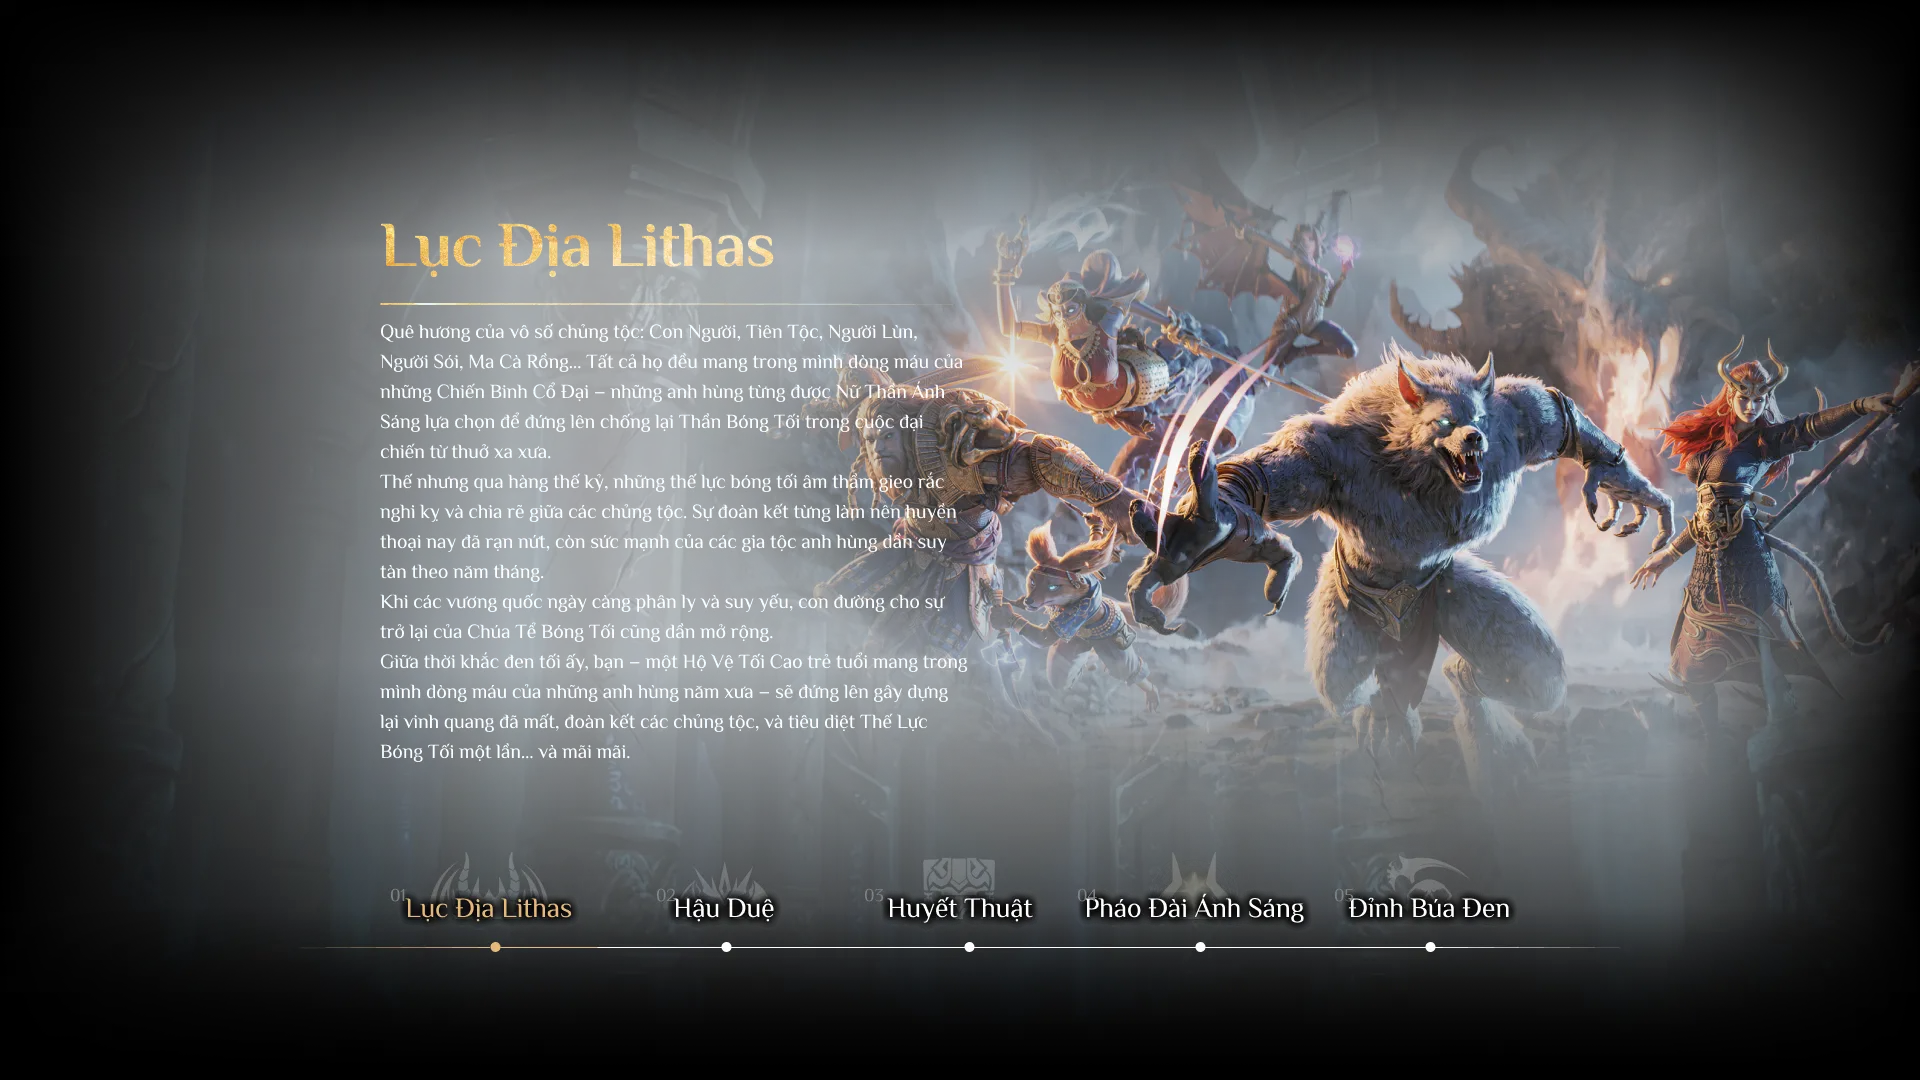
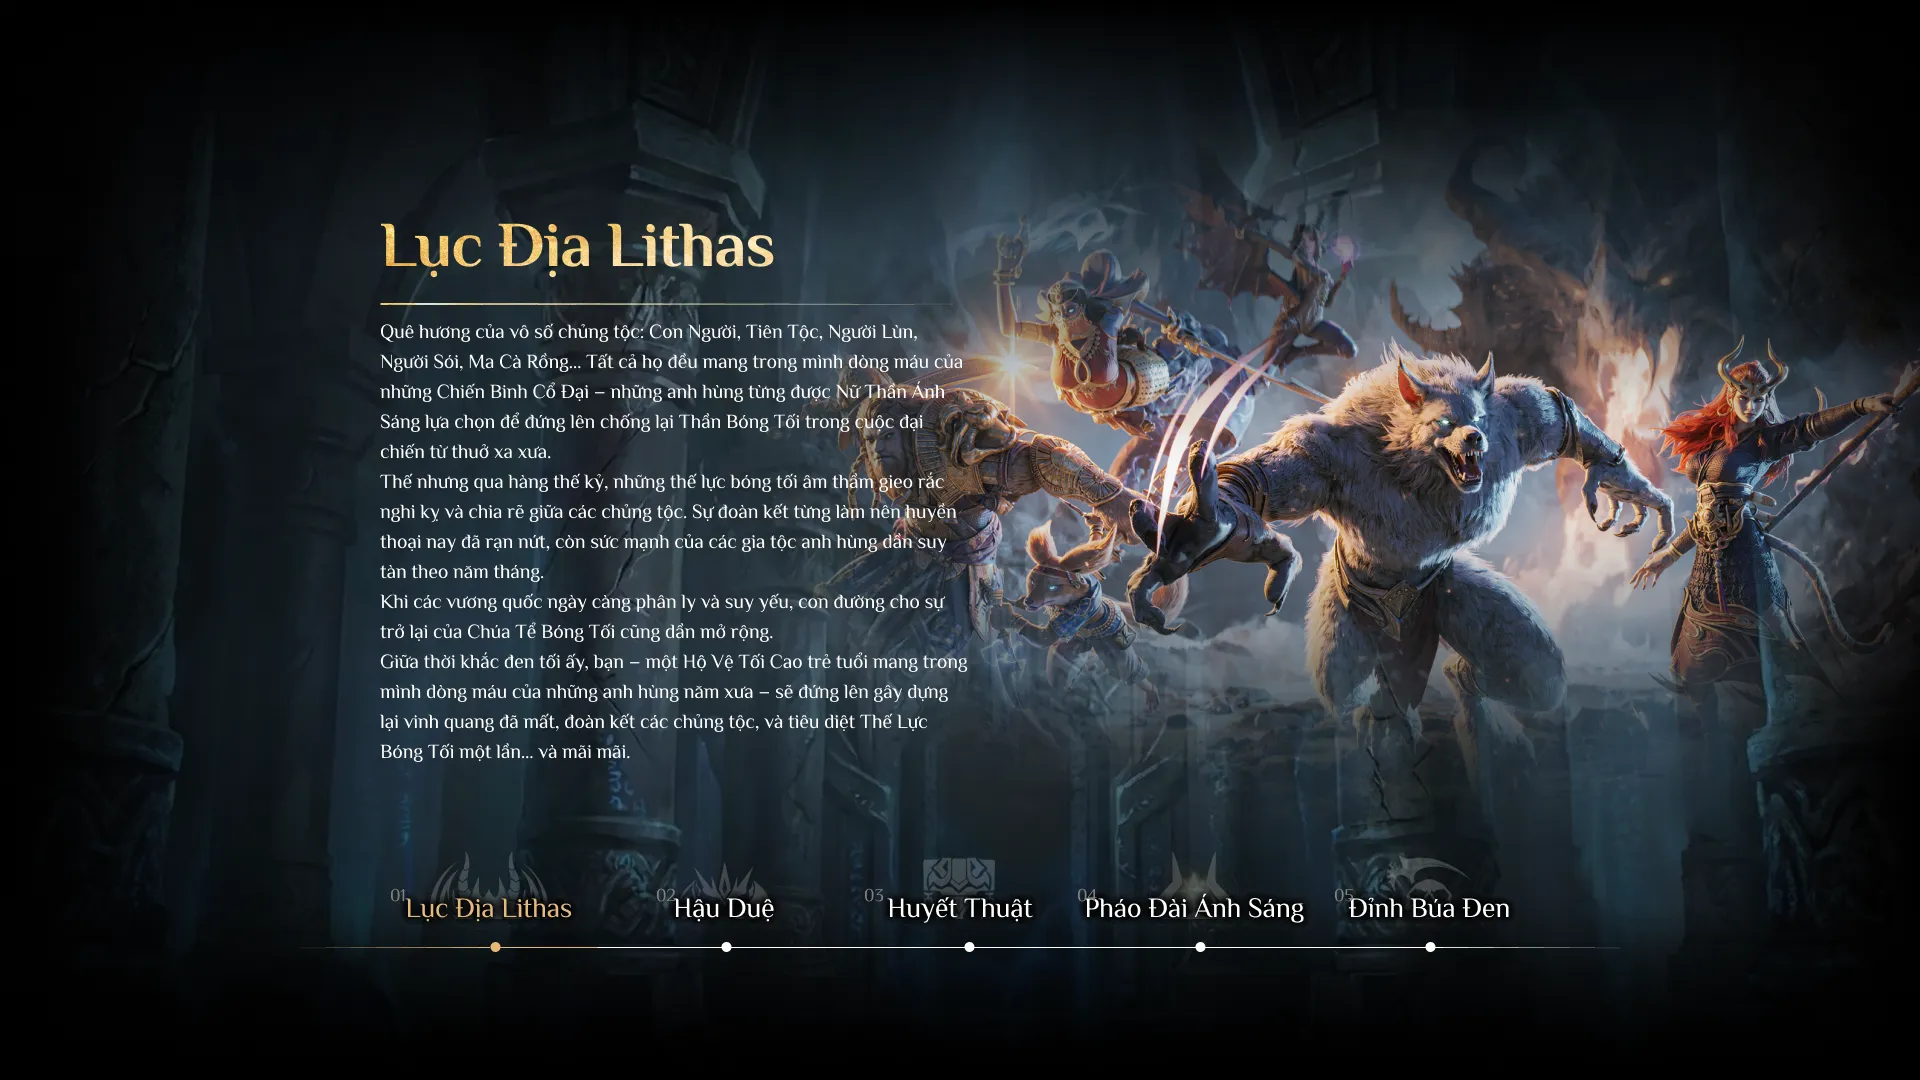
gp01: update

diff --git a/index.html b/index.html
@@ -317,8 +317,35 @@
     <!-- TAB 4 -->
     <section class="tab4">
       <div class="background">
-        <img src="publics/images/tab4/bg-desk.webp" class="desk" />
-        <img src="publics/images/tab4/bg-mobi.webp" class="mobi" />
+        <img src="publics/images/tab4/bg-desk-1.webp" class="desk" />
+        <img src="publics/images/tab4/bg-mobi-1.webp" class="mobi" />
+      </div>
+
+      <div class="main-content">
+        <div class="bg-tuong">
+          <img src="publics/images/tab4/tuong-1.webp">
+        </div>
+
+        <div class="frame-info">
+          <div class="title">
+            <img src="publics/images/tab4/title-1.webp">
+          </div>
+          <p>Quê hương của vô số chủng tộc: Con Người, Tiên Tộc, Người Lùn,<br> Người Sói, Ma Cà Rồng… Tất cả họ đều
+            mang trong mình dòng
+            máu của<br> những Chiến Binh Cổ Đại – những anh hùng từng được Nữ Thần Ánh<br> Sáng lựa chọn để đứng lên
+            chống lại Thần Bóng Tối
+            trong cuộc đại<br> chiến từ thuở xa xưa.<br>
+            Thế nhưng qua hàng thế kỷ, những thế lực bóng tối âm thầm gieo rắc<br> nghi kỵ và chia rẽ giữa các chủng
+            tộc. Sự đoàn kết
+            từng làm nên huyền<br> thoại nay đã rạn nứt, còn sức mạnh của các gia tộc anh hùng dần suy<br> tàn theo năm
+            tháng.<br>
+            Khi các vương quốc ngày càng phân ly và suy yếu, con đường cho sự<br> trở lại của Chúa Tể Bóng Tối cũng dần
+            mở rộng.<br>
+            Giữa thời khắc đen tối ấy, bạn – một Hộ Vệ Tối Cao trẻ tuổi mang trong<br> mình dòng máu của những anh hùng
+            năm xưa – sẽ
+            đứng lên gây dựng<br> lại vinh quang đã mất, đoàn kết các chủng tộc, và tiêu diệt Thế Lực<br> Bóng Tối một
+            lần… và mãi mãi.</p>
+        </div>
       </div>
     </section>
     <!-- END TAB 4 -->

diff --git a/publics/css/style.css b/publics/css/style.css
@@ -984,6 +984,37 @@ ul#ul-menu_mobile li a svg {
     }
 }
 
+/* TAB 4 */
+
+.tab4 img {
+    width: 100%;
+}
+
+.tab4 .bg-tuong {
+    position: absolute;
+    top: 7.4%;
+    width: 72.2%;
+    right: -8.5%;
+}
+
+.tab4 .frame-info {
+    position: absolute;
+    top: 18.4%;
+    width: fit-content;
+    left: 19.8%;
+}
+
+.tab4 .frame-info .title {
+    width: 58%;
+}
+
+.tab4 .frame-info p {
+    color: #fff;
+    font-size: 1.02vw;
+    margin-top: 0.7vw;
+    line-height: 1.52;
+}
+
 /* FOOTER */
 
 footer {
